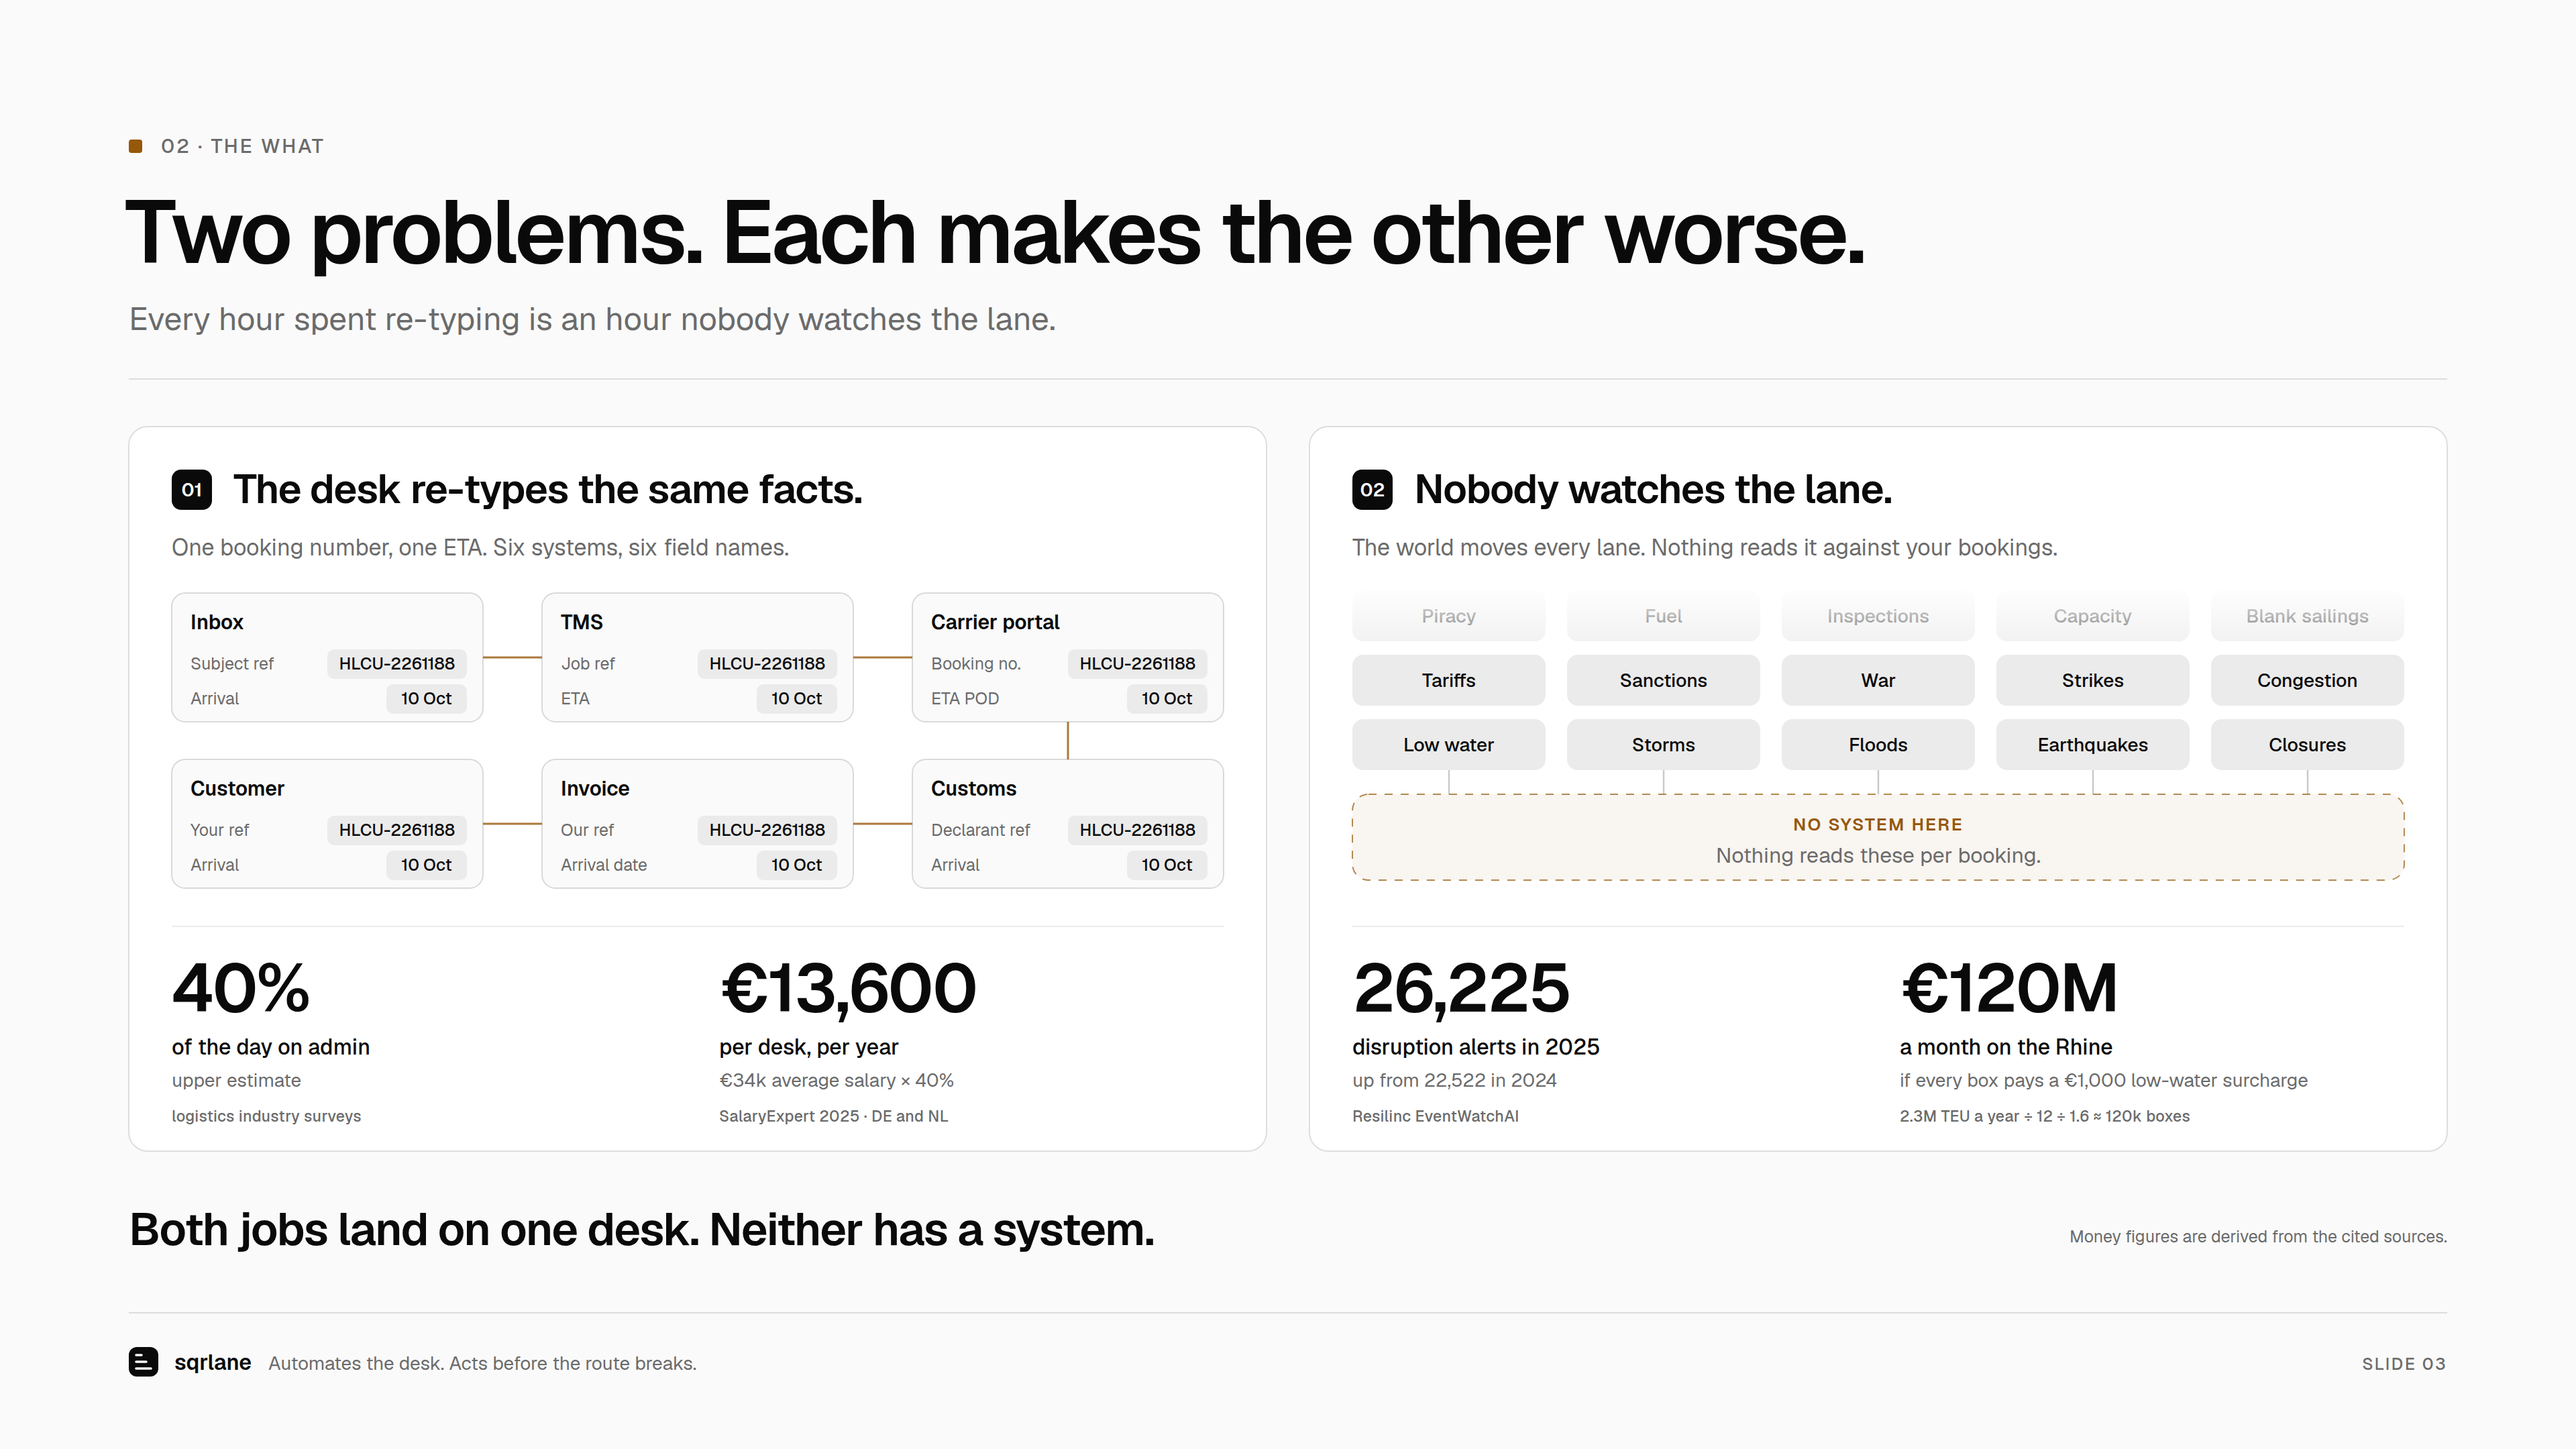
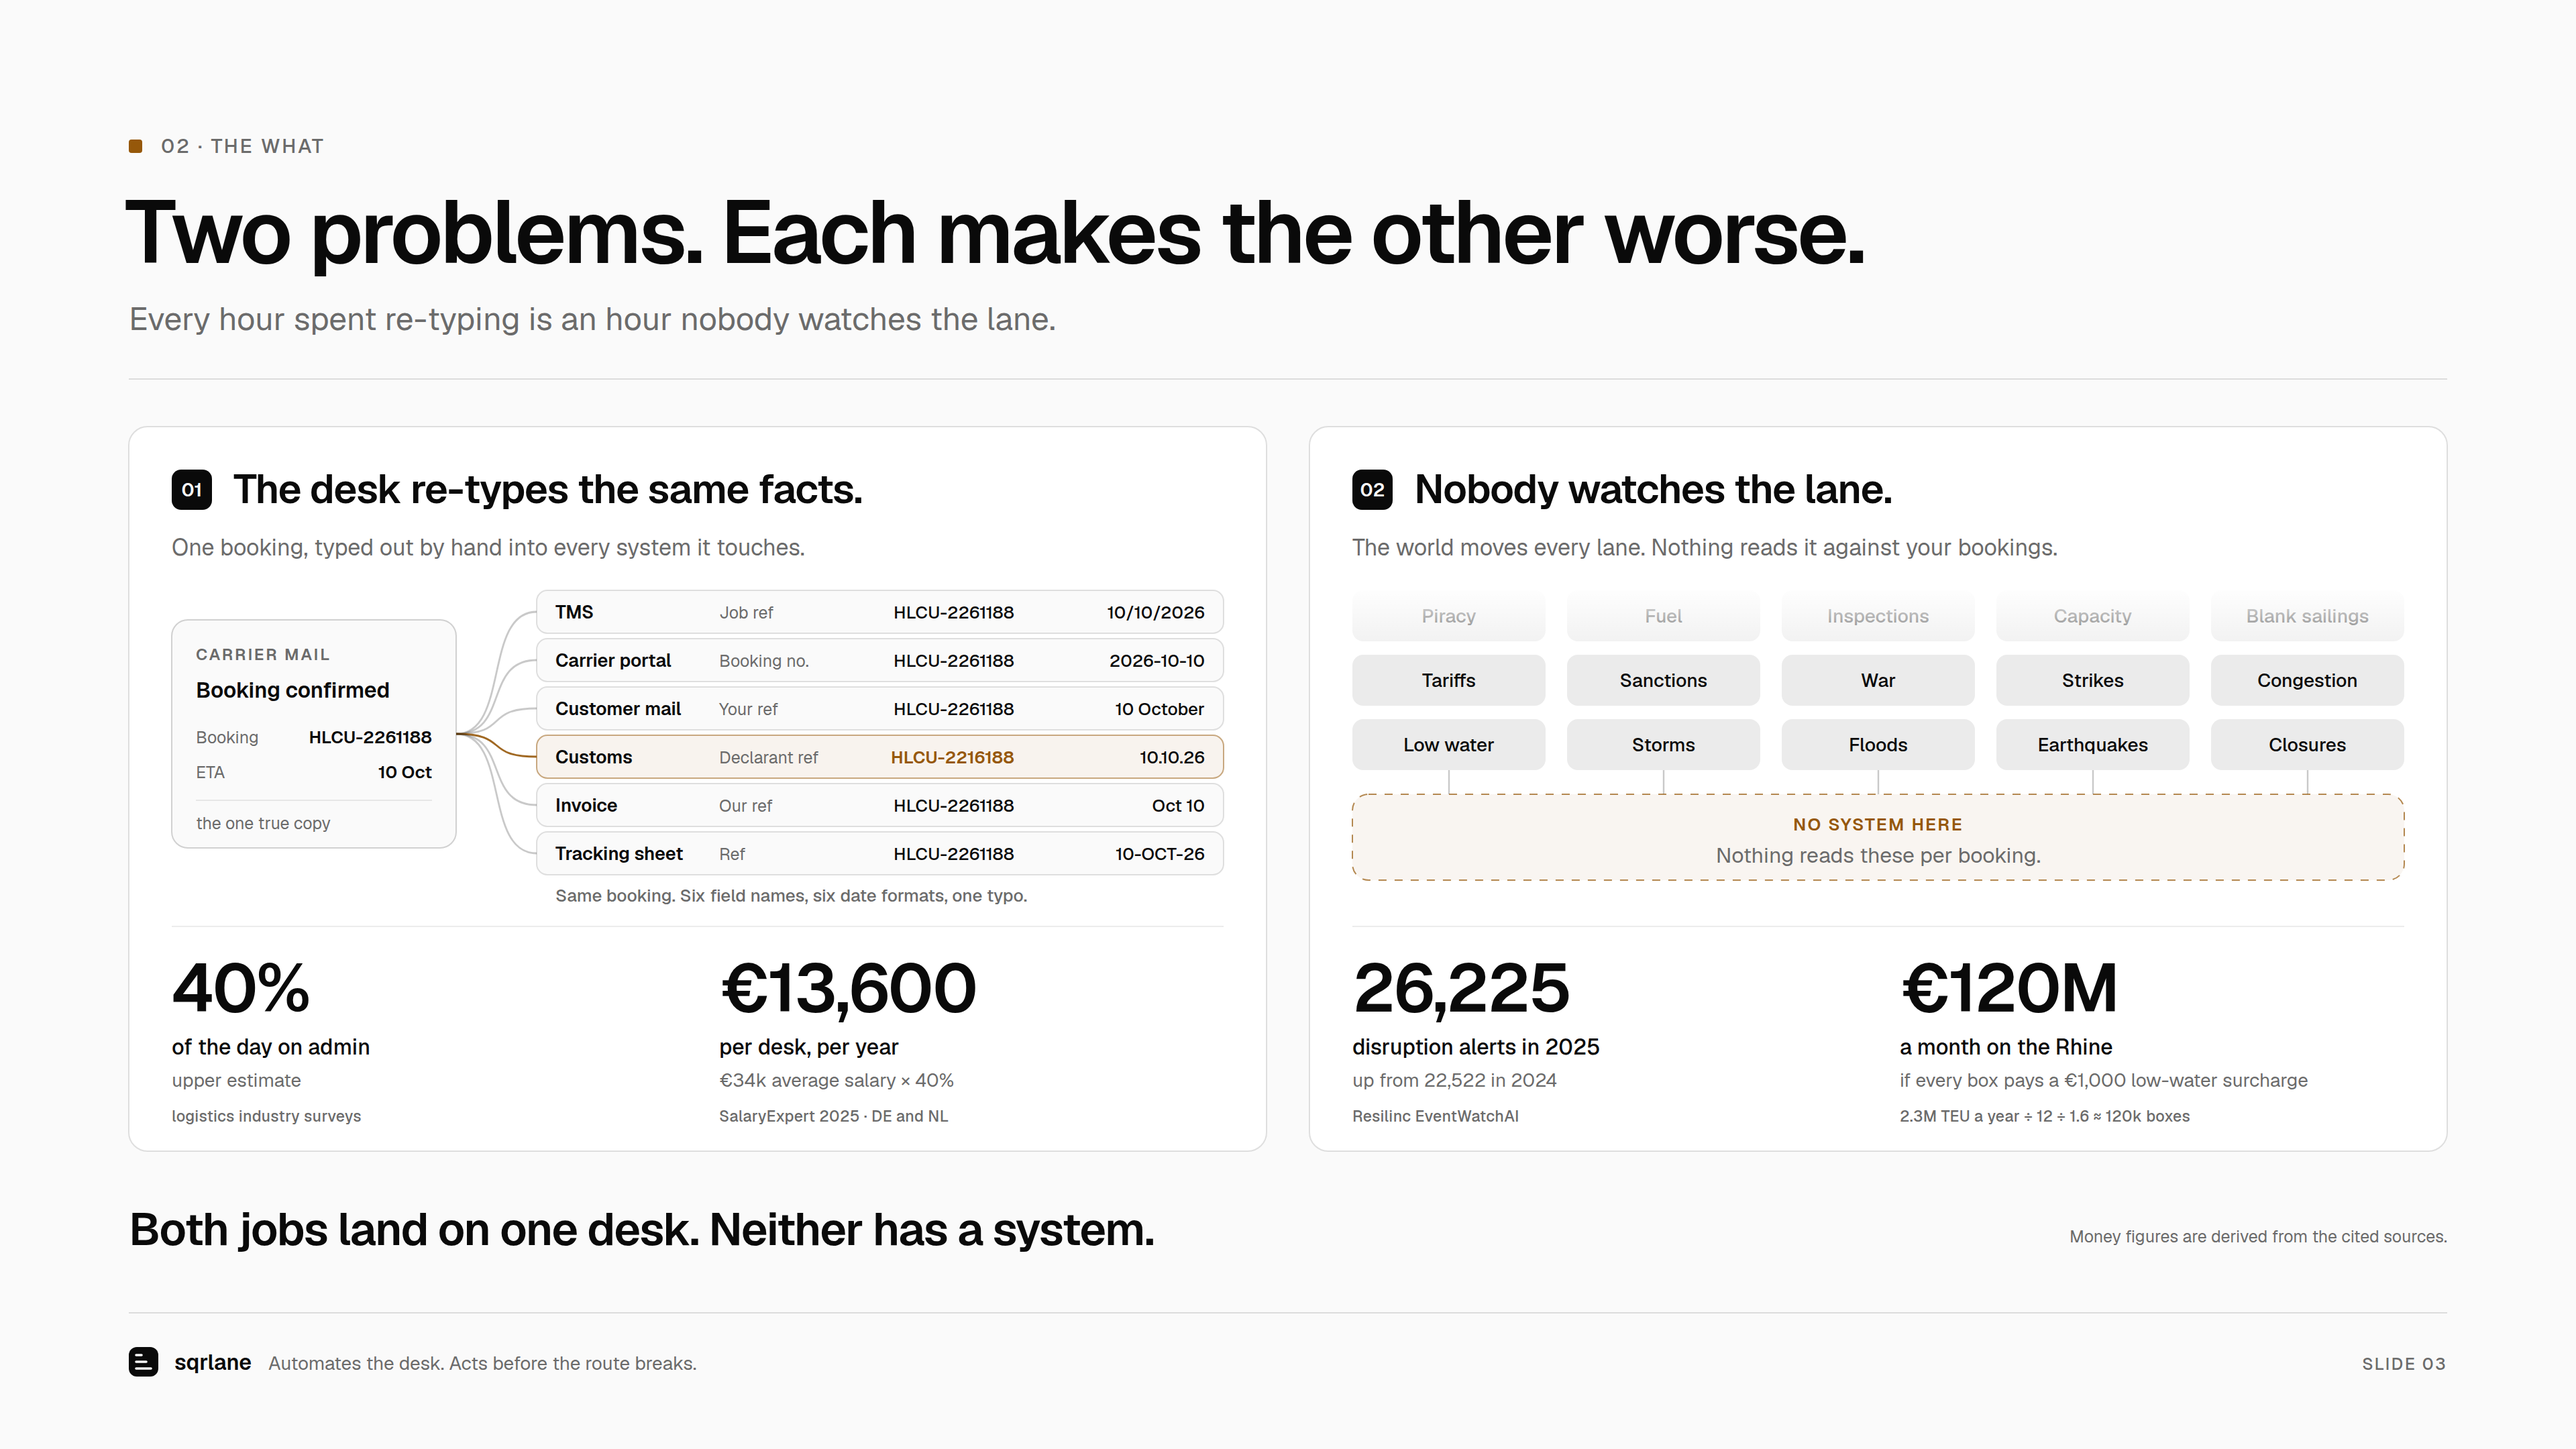
Deck v2 slide 03: one source typed out six times, with drift and a typo
Claude-Session: https://claude.ai/code/session_01HbtpjYfXPKy7DdRHDFrJUP

Changed region(s): [[0.0625, 0.3722, 0.4688, 0.6204]]

diff --git a/deck/v2/build_03.py b/deck/v2/build_03.py
@@ -22,35 +22,51 @@ def stat(x, big, lab, qual, src):
 
 # ---- 01 the desk re-types
 X1 = M
-panel(X1, "01", "The desk re-types the same facts.", "One booking number, one ETA. Six systems, six field names.", "problem-retyping")
-BW, BH, GAP = 232, 96, 44
-# The same two facts in every system, under a different field name each time.
-REF, ETA = "HLCU-2261188", "10 Oct"
-fields = {"Inbox": ("Subject ref", "Arrival"), "TMS": ("Job ref", "ETA"),
-          "Carrier portal": ("Booking no.", "ETA POD"), "Customer": ("Your ref", "Arrival"),
-          "Invoice": ("Our ref", "Arrival date"), "Customs": ("Declarant ref", "Arrival")}
-rows = [["Inbox", "TMS", "Carrier portal"], ["Customer", "Invoice", "Customs"]]
-pos = {}
-for r, names in enumerate(rows):
-    for c, nm in enumerate(names):
-        bx, by = X1 + 32 + c * (BW + GAP), PY + 124 + r * 124
-        pos[nm] = (bx, by)
-        s.g("system-" + nm.lower().replace(" ", "-"))
-        s.R(bx, by, BW, BH, BG, 10, f' stroke="{INK}" stroke-opacity="0.14"')
-        s.T(bx + 14, by + 27, nm, 15, 600)
-        for k, (lab, val, vw) in enumerate([(fields[nm][0], REF, 104), (fields[nm][1], ETA, 60)]):
-            ry = by + 42 + k * 26
-            s.T(bx + 14, ry + 15, lab, 12.5, 400, MUT)
-            s.R(bx + BW - 12 - vw, ry, vw, 22, TRACK, 5)
-            s.T(bx + BW - 12 - vw / 2, ry + 15, val, 12.5, 500, INK, anchor="middle")
-        s.end()
-s.g("handoffs")
-for a, b in [("Inbox", "TMS"), ("TMS", "Carrier portal"), ("Customer", "Invoice"), ("Invoice", "Customs")]:
-    (ax, ay), (bx, by) = pos[a], pos[b]
-    s.line(ax + BW, ay + BH / 2, bx, by + BH / 2, AMB, 0.8, 1.5)
-cx, cy = pos["Carrier portal"]
-s.line(cx + BW / 2, cy + BH, cx + BW / 2, cy + 124, AMB, 0.8, 1.5)
+panel(X1, "01", "The desk re-types the same facts.", "One booking, typed out by hand into every system it touches.", "problem-retyping")
+# One source, typed out by hand six times: a new field name, a new date format,
+# and one transposed digit nobody catches. Illustrative.
+REF = "HLCU-2261188"
+SRC_X, SRC_Y, SRC_W, SRC_H = X1 + 32, PY + 144, 212, 170
+s.g("source-mail")
+s.R(SRC_X, SRC_Y, SRC_W, SRC_H, BG, 12, f' stroke="{INK}" stroke-opacity="0.18"')
+s.T(SRC_X + 18, SRC_Y + 30, "CARRIER MAIL", 12, 600, MUT, ls=1.4)
+s.T(SRC_X + 18, SRC_Y + 58, "Booking confirmed", 16, 600)
+s.T(SRC_X + 18, SRC_Y + 92, "Booking", 12.5, 400, MUT)
+s.T(SRC_X + SRC_W - 18, SRC_Y + 92, REF, 13, 600, anchor="end")
+s.T(SRC_X + 18, SRC_Y + 118, "ETA", 12.5, 400, MUT)
+s.T(SRC_X + SRC_W - 18, SRC_Y + 118, "10 Oct", 13, 600, anchor="end")
+s.rule(SRC_Y + 134, 0.08, SRC_X + 18, SRC_W - 36)
+s.T(SRC_X + 18, SRC_Y + 156, "the one true copy", 12.5, 400, MUT)
 s.end()
+
+rows = [  # system, its field name, the ref as typed, the date as typed, typo?
+    ("TMS", "Job ref", REF, "10/10/2026", False),
+    ("Carrier portal", "Booking no.", REF, "2026-10-10", False),
+    ("Customer mail", "Your ref", REF, "10 October", False),
+    ("Customs", "Declarant ref", "HLCU-2216188", "10.10.26", True),
+    ("Invoice", "Our ref", REF, "Oct 10", False),
+    ("Tracking sheet", "Ref", REF, "10-OCT-26", False),
+]
+RX, RW, RH, RS = X1 + 304, 512, 32, 36
+R0 = PY + 122
+srcy = SRC_Y + SRC_H / 2
+s.g("typed-six-times")
+for i, (sysn, lab, ref, dt, typo) in enumerate(rows):
+    ry = R0 + i * RS
+    cy = ry + RH / 2
+    col = AMB if typo else INK
+    s.raw(f'<path d="M{SRC_X + SRC_W} {srcy} C{SRC_X + SRC_W + 40} {srcy} {RX - 40} {cy} {RX} {cy}" '
+          f'stroke="{col}" stroke-opacity="{0.9 if typo else 0.22}" stroke-width="1.4" fill="none"/>')
+    s.g("row-" + sysn.lower().replace(" ", "-"))
+    s.R(RX, ry, RW, RH, AMB if typo else BG, 8,
+        f' fill-opacity="{0.07 if typo else 1}" stroke="{col}" stroke-opacity="{0.5 if typo else 0.12}"')
+    s.T(RX + 14, cy + 5, sysn, 13.5, 600)
+    s.T(RX + 136, cy + 5, lab, 12.5, 400, MUT)
+    s.T(RX + 356, cy + 5, ref, 13, 600 if typo else 500, col, anchor="end")
+    s.T(RX + RW - 14, cy + 5, dt, 13, 500, INK, anchor="end")
+    s.end()
+s.end()
+s.T(RX + 14, R0 + 6 * RS + 16, "Same booking. Six field names, six date formats, one typo.", 13, 500, MUT)
 s.rule(PY + 372, 0.08, X1 + 32, PW - 64)
 stat(X1 + 32, "40%", "of the day on admin", "upper estimate", "logistics industry surveys")
 stat(X1 + 440, "€13,600", "per desk, per year", "€34k average salary × 40%", "SalaryExpert 2025 · DE and NL")
